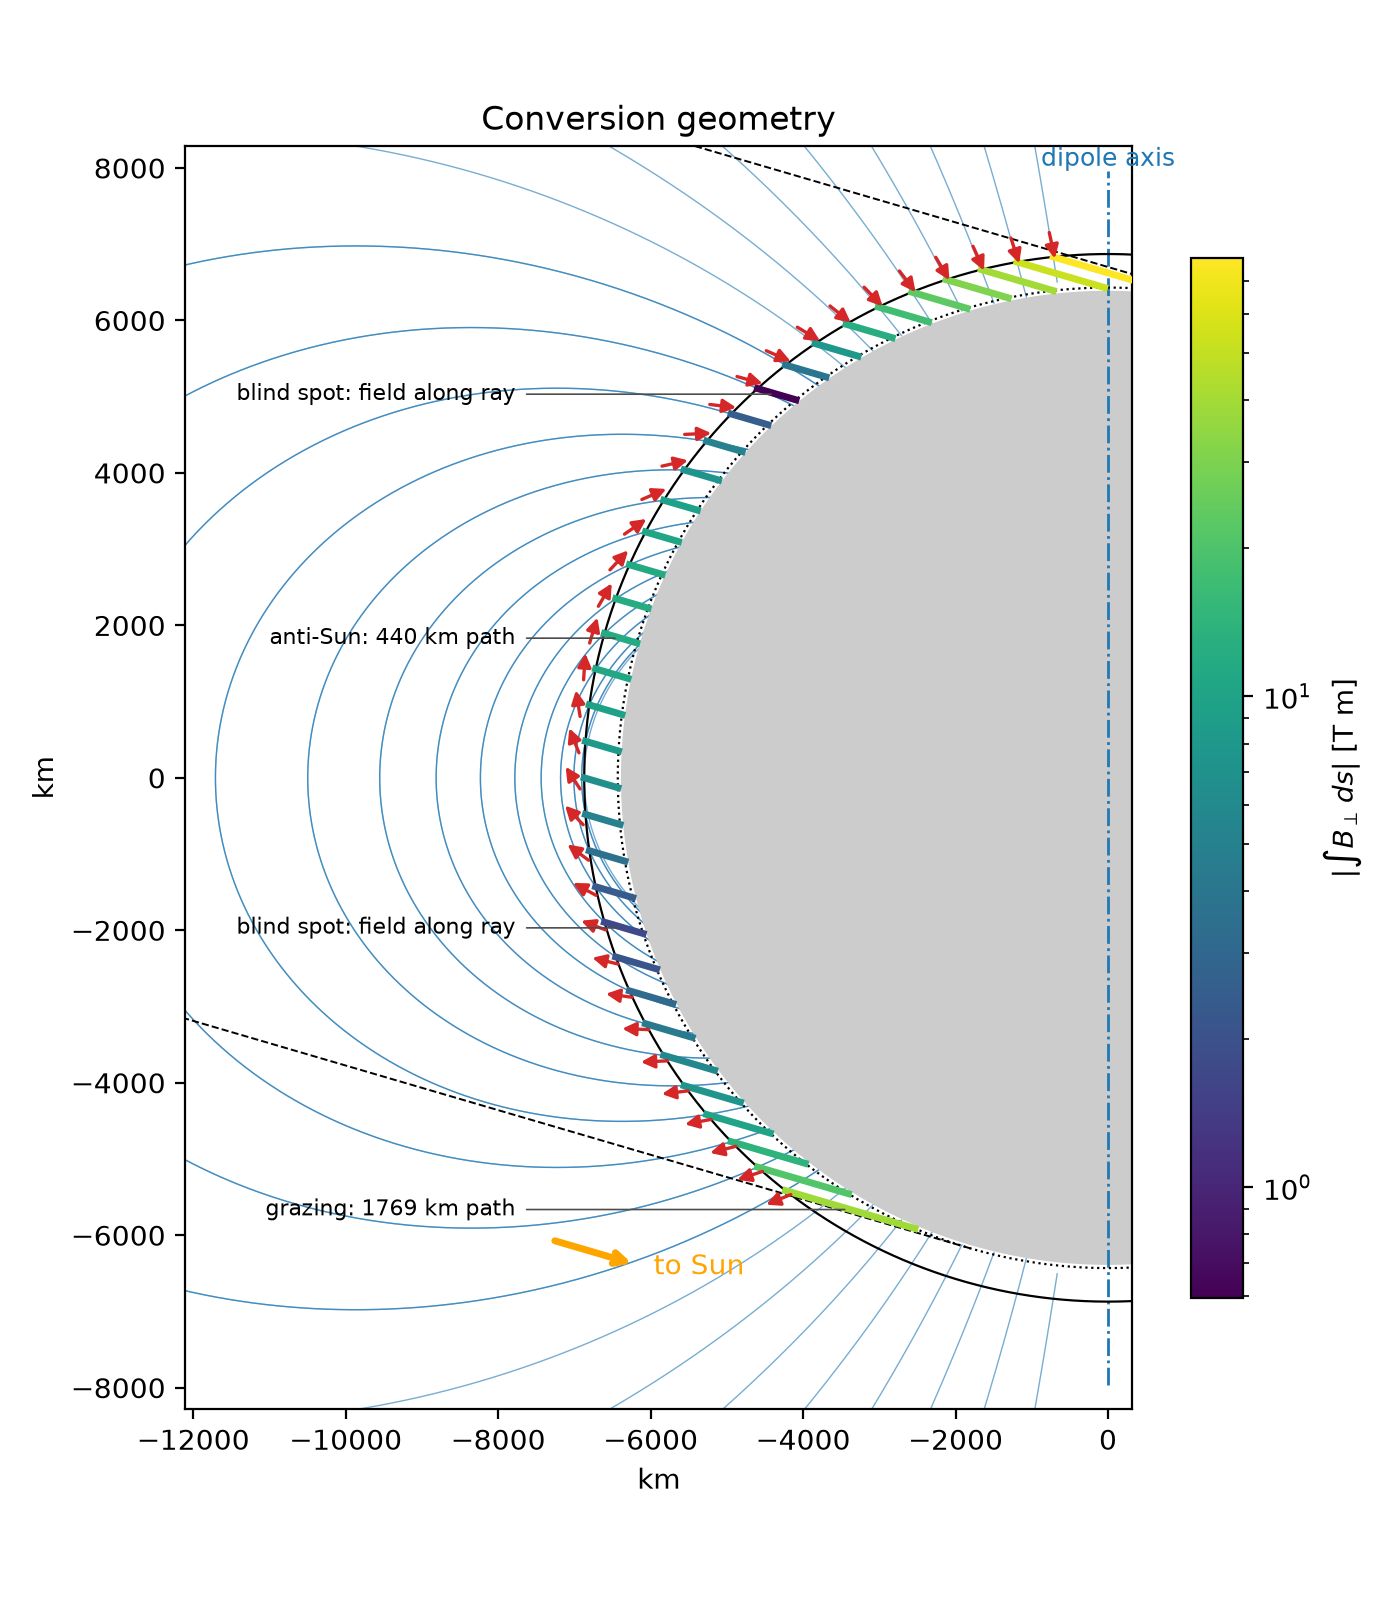
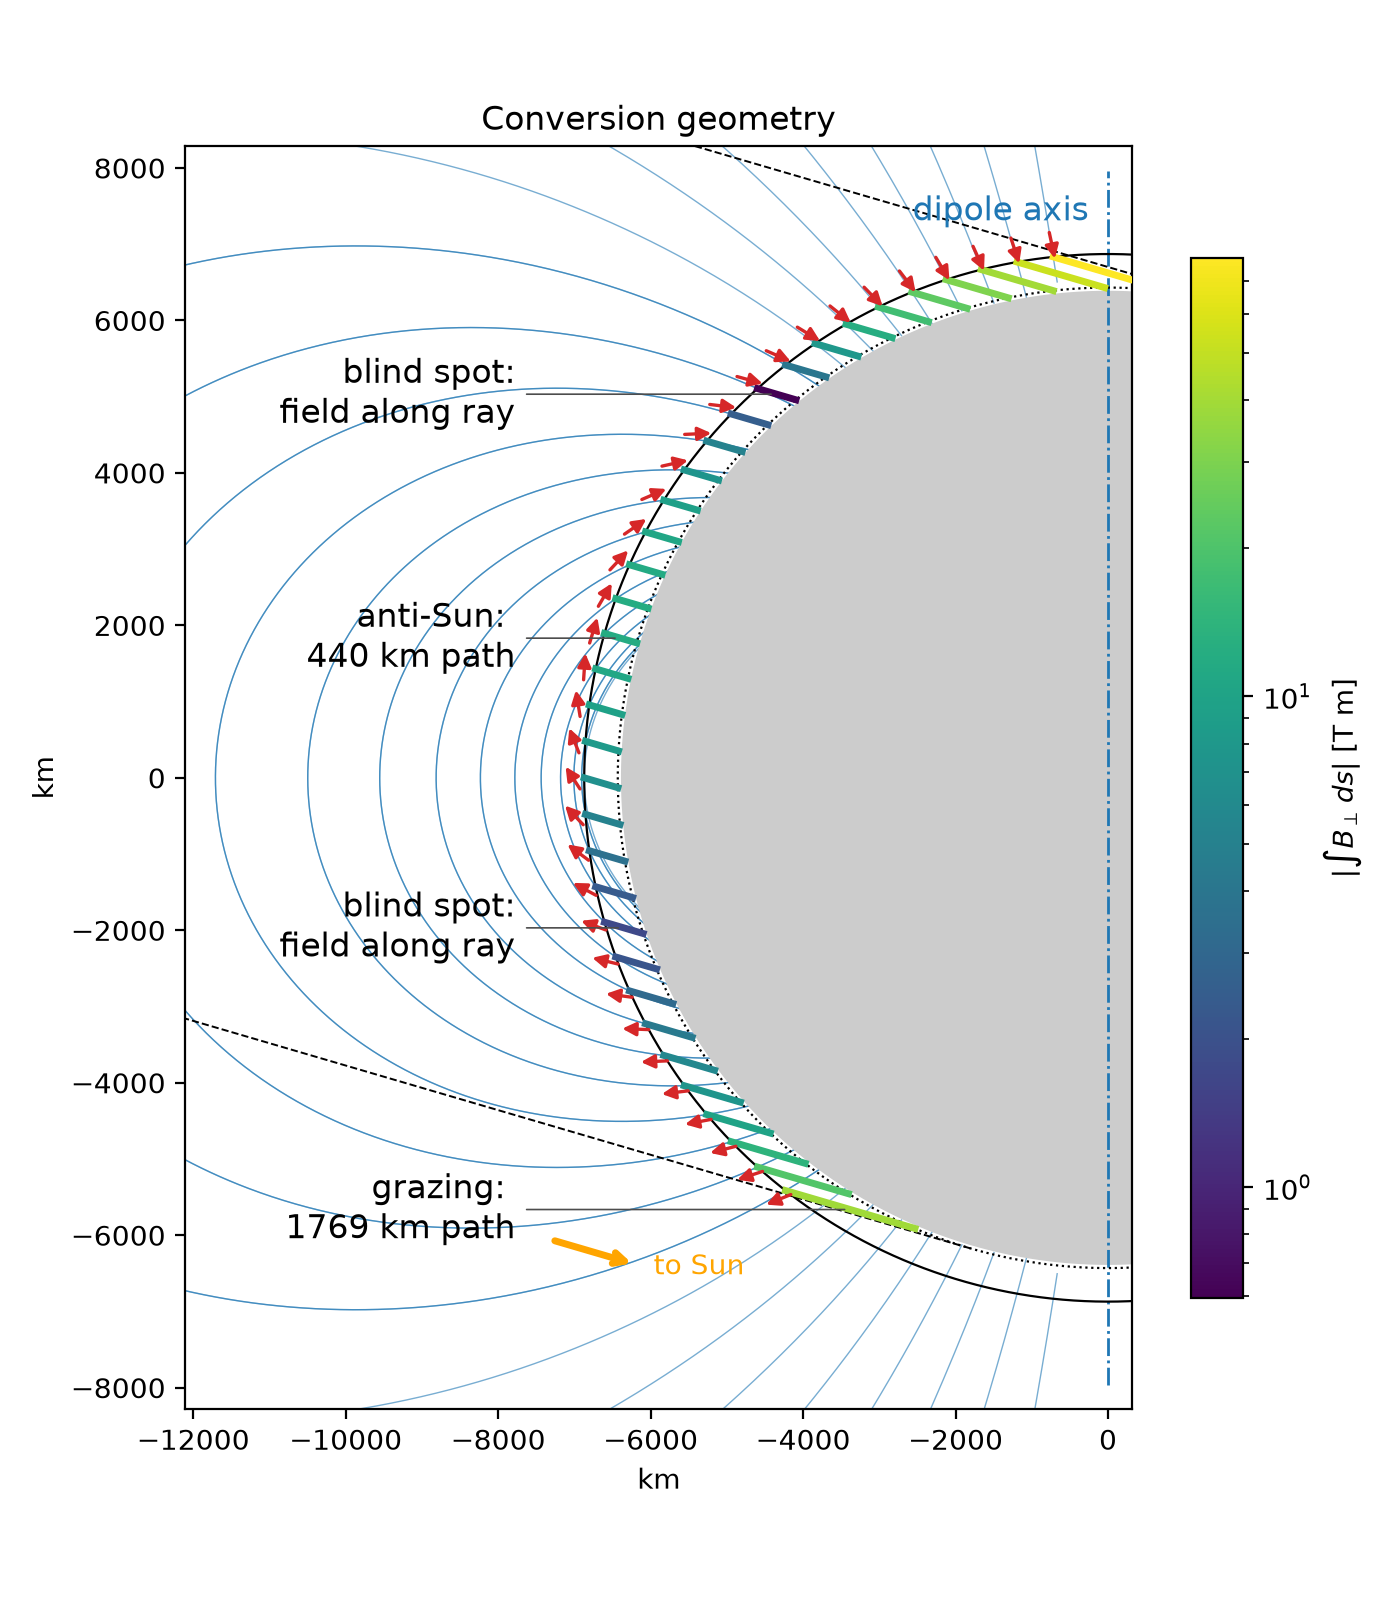
Changed font size in geometry.png

diff --git a/output/fig_geometry.py b/output/fig_geometry.py
@@ -127,14 +127,14 @@ def main():
 
     # Labels for the four example rays.
     labels = [
-        (straight_down, f"anti-Sun: {length[straight_down]:.0f} km path"),
-        (grazing, f"grazing: {length[grazing]:.0f} km path"),
-        (north_blind, "blind spot: field along ray"),
-        (south_blind, "blind spot: field along ray"),
+        (straight_down, f"anti-Sun: \n{length[straight_down]:.0f} km path"),
+        (grazing, f"grazing: \n{length[grazing]:.0f} km path"),
+        (north_blind, "blind spot:\nfield along ray"),
+        (south_blind, "blind spot:\nfield along ray"),
     ]
     for i, text in labels:
         x, y = to_plane(rays[i]["path_ecef_km"][100])  # middle of the ray
-        ax.annotate(text, (x, y), xytext=(-1.22 * R_EARTH_KM, y), fontsize=8,
+        ax.annotate(text, (x, y), xytext=(-1.22 * R_EARTH_KM, y), fontsize=12,
                     va="center", ha="right", zorder=6,
                     arrowprops=dict(arrowstyle="-", lw=0.6, color="0.3"))
 
@@ -143,11 +143,12 @@ def main():
     ax.annotate("", xy=tail + 1200 * np.array([sx, sy]), xytext=tail,
                 arrowprops=dict(arrowstyle="->", lw=2.5, color="orange"))
     ax.text(*(tail + 1300 * np.array([sx, sy])), " to Sun", color="orange",
-            va="center")
+            va="center", zorder=6)
     ax.plot([0, 0], [-1.25 * R_EARTH_KM, 1.25 * R_EARTH_KM], color="C0",
             lw=1, ls="-.")
-    ax.text(0, 1.26 * R_EARTH_KM, "dipole axis", ha="center", color="C0",
-            fontsize=9)
+    ax.text(-0.04 * R_EARTH_KM, 1.20 * R_EARTH_KM, "dipole axis",
+            ha="right", va="top", color="C0", fontsize=12,
+            zorder=6)
 
     ax.set(aspect="equal", xlim=(-1.9 * R_EARTH_KM, 0.05 * R_EARTH_KM),
            ylim=(-1.3 * R_EARTH_KM, 1.3 * R_EARTH_KM),
